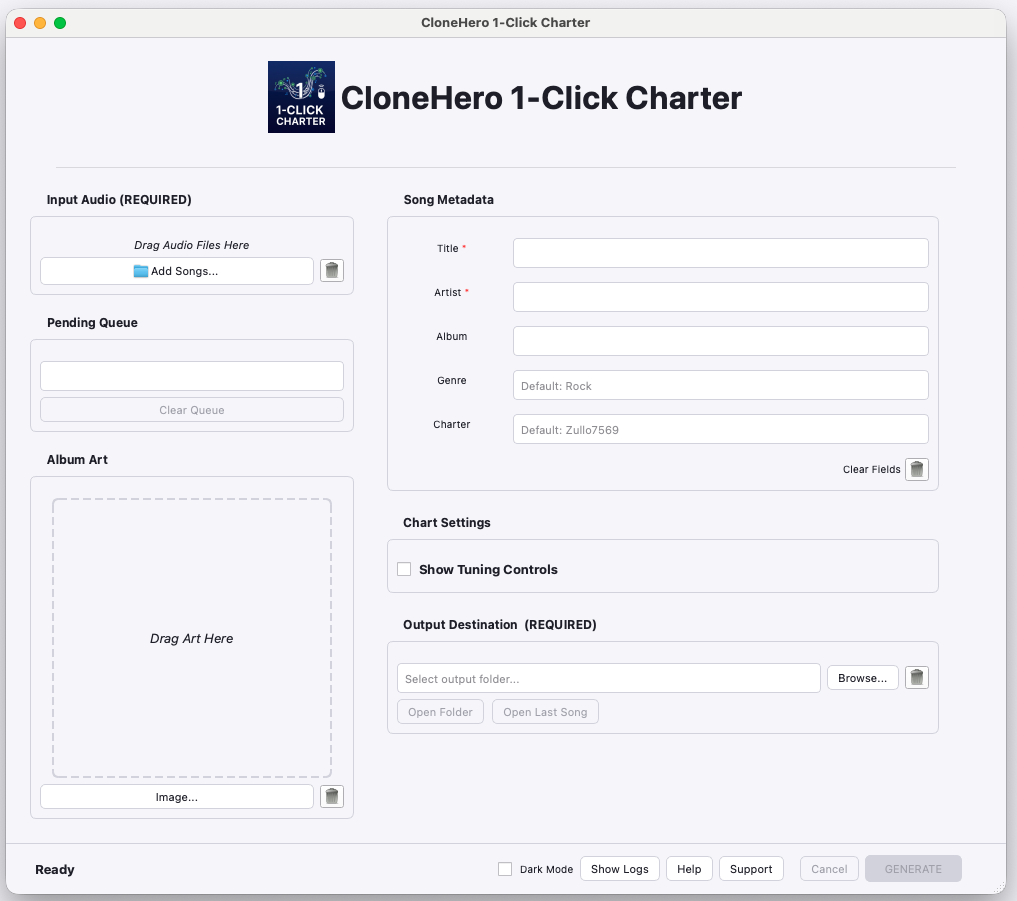
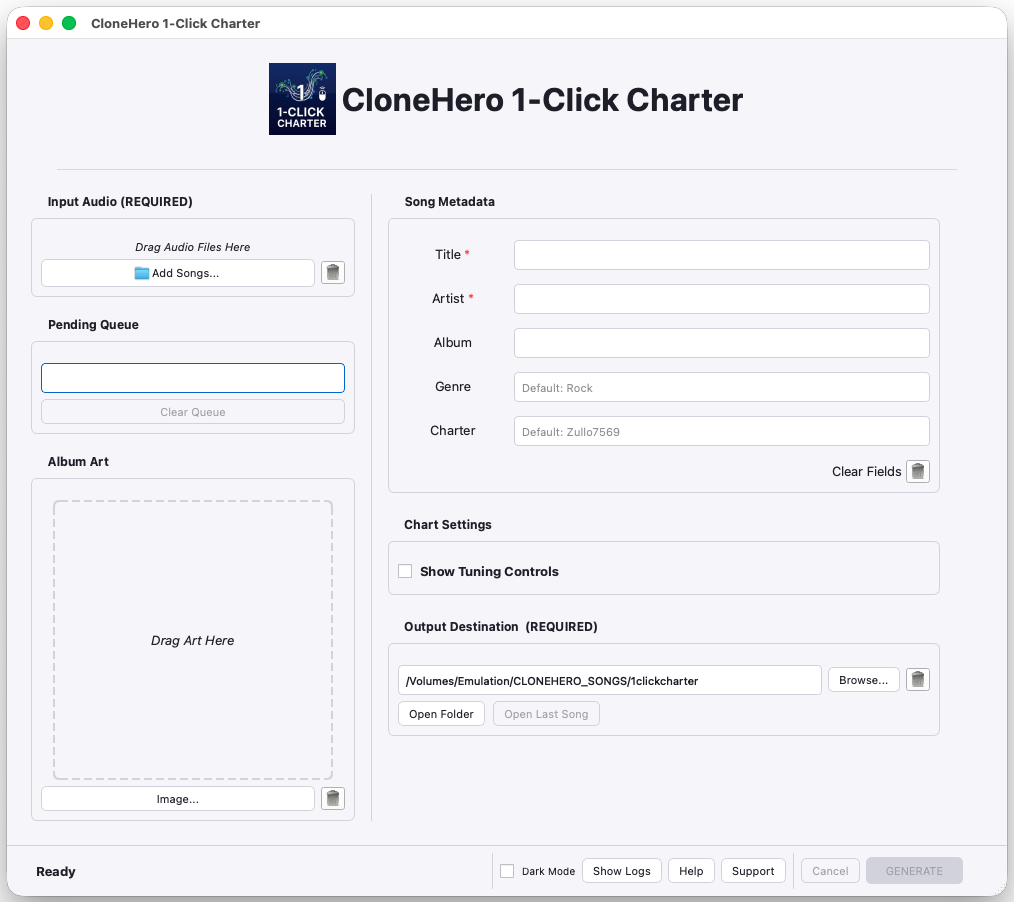
final touches

diff --git a/gui/main_window.py b/gui/main_window.py
@@ -3,7 +3,7 @@ import json
 import sys
 from pathlib import Path
 
-from PySide6.QtCore import QSettings, Qt, QTimer, QProcess
+from PySide6.QtCore import QSettings, Qt, QTimer, QProcess, QSize
 from PySide6.QtGui import (QDragEnterEvent, QDropEvent, QPixmap)
 from PySide6.QtWidgets import (QApplication, QCheckBox, QFileDialog, QFrame, QGroupBox,
                                QHBoxLayout, QLabel, QListWidget, QListWidgetItem, QMainWindow, QMessageBox,
@@ -31,6 +31,8 @@ class MainWindow(QMainWindow):
         self.cover_path: Path | None = None
         self.last_out_song: Path | None = None
 
+        self.validator_proc: QProcess | None = None
+
         self.song_queue: list[Path] = []
         self._title_user_edited = False
 
@@ -49,7 +51,6 @@ class MainWindow(QMainWindow):
         self.settings_panel.refresh_presets()
         last_preset = self.settings.value("preset", "2) Standard", type=str)
 
-        # We need to manually set this on the combo box in the panel
         idx = self.settings_panel.preset_combo.findText(last_preset)
         if idx >= 0:
             self.settings_panel.preset_combo.setCurrentIndex(idx)
@@ -76,16 +77,13 @@ class MainWindow(QMainWindow):
 
     def _restore_settings(self) -> None:
         """Restores window geometry and last used text fields."""
-        # 1. Charter Name
         saved_charter = self.settings.value("charter", "Zullo7569", type=str)
         if saved_charter != "Zullo7569":
             self.meta_panel.charter_edit.setText(saved_charter)
 
-        # 2. Output Directory
         saved_out = self.settings.value("out_dir", "", type=str)
         self.out_panel.dir_edit.setText(saved_out)
 
-        # 3. Window Geometry
         geom = self.settings.value("geometry")
         if geom: self.restoreGeometry(geom)
 
@@ -100,10 +98,12 @@ class MainWindow(QMainWindow):
         self._build_header(main_layout)
 
         # Splitter Body
-        splitter = QSplitter(Qt.Horizontal)
-        splitter.setHandleWidth(1)
-        splitter.setChildrenCollapsible(False)
-        main_layout.addWidget(splitter)
+        self.splitter = QSplitter(Qt.Horizontal)
+        self.splitter.setHandleWidth(1) # Visual line handled by stylesheet or layout
+        # We can style the handle to be visible
+        self.splitter.setStyleSheet("QSplitter::handle { background-color: palette(mid); }")
+        self.splitter.setChildrenCollapsible(False)
+        main_layout.addWidget(self.splitter)
 
         # SIDEBAR (Audio, Queue, Art)
         self.sidebar_widget = QWidget()
@@ -137,13 +137,13 @@ class MainWindow(QMainWindow):
         # Scroll Area
         scroll = QScrollArea()
         scroll.setWidgetResizable(True)
-        scroll.setHorizontalScrollBarPolicy(Qt.ScrollBarAlwaysOff) # Removed Horizontal Scroll
+        scroll.setHorizontalScrollBarPolicy(Qt.ScrollBarAlwaysOff)
         scroll.setWidget(self.main_widget)
         scroll.setFrameShape(QFrame.NoFrame)
 
-        splitter.addWidget(self.sidebar_widget)
-        splitter.addWidget(scroll)
-        splitter.setStretchFactor(1, 1)
+        self.splitter.addWidget(self.sidebar_widget)
+        self.splitter.addWidget(scroll)
+        self.splitter.setStretchFactor(1, 1)
 
         # Footer
         self._build_footer()
@@ -169,7 +169,7 @@ class MainWindow(QMainWindow):
         layout.addWidget(w)
 
         line = QFrame()
-        line.setObjectName("HeaderLine") # Named object for theming
+        line.setObjectName("HeaderLine")
         line.setFixedHeight(1)
         line.setFixedWidth(900)
         layout.addWidget(line, alignment=Qt.AlignHCenter)
@@ -199,7 +199,7 @@ class MainWindow(QMainWindow):
         self.grp_queue = QGroupBox("Pending Queue")
         v_q = QVBoxLayout(self.grp_queue)
         self.queue_list = QListWidget()
-        self.queue_list.setMaximumHeight(90) # Taller queue box
+        self.queue_list.setMaximumHeight(90)
         self.btn_clear_queue = QPushButton("Clear Queue")
         v_q.addWidget(self.queue_list)
         v_q.addWidget(self.btn_clear_queue)
@@ -232,14 +232,41 @@ class MainWindow(QMainWindow):
         lay = QHBoxLayout(footer)
         lay.setContentsMargins(0, 5, 20, 5)
 
+        # --- LEFT SIDE CONTROLS ---
         self.chk_dark = QCheckBox("Dark Mode")
         self.chk_dark.setChecked(self.dark_mode)
+
         self.btn_show_logs = QPushButton("Show Logs")
         self.btn_help = QPushButton("Help")
         self.btn_support = QPushButton("Support")
-        self.btn_cancel = QPushButton("Cancel")
 
-        # Status Bar items
+        # Separators
+        sep1 = QFrame()
+        sep1.setFrameShape(QFrame.VLine)
+        sep1.setStyleSheet("color: palette(mid);")
+
+        sep2 = QFrame()
+        sep2.setFrameShape(QFrame.VLine)
+        sep2.setStyleSheet("color: palette(mid);")
+
+        lay.addWidget(sep1)
+        lay.addWidget(self.chk_dark)
+        lay.addWidget(self.btn_show_logs)
+        lay.addWidget(self.btn_help)
+        lay.addWidget(self.btn_support)
+        lay.addWidget(sep2)
+
+        lay.addStretch() # Spacer between left/right controls
+
+        # --- RIGHT SIDE ACTION ---
+        self.btn_cancel = QPushButton("Cancel")
+        self.btn_generate = QPushButton("  GENERATE  ")
+        self.btn_generate.setObjectName("Primary")
+
+        lay.addWidget(self.btn_cancel)
+        lay.addWidget(self.btn_generate)
+
+        # --- STATUS BAR ---
         self.status_container = QWidget()
         s_lay = QHBoxLayout(self.status_container)
         s_lay.setContentsMargins(27, 0, 0, 0)
@@ -255,18 +282,6 @@ class MainWindow(QMainWindow):
         s_lay.addStretch()
 
         self.statusBar().addWidget(self.status_container, 1)
-
-        self.btn_generate = QPushButton("  GENERATE  ")
-        self.btn_generate.setObjectName("Primary")
-
-        lay.addWidget(self.chk_dark)
-        lay.addWidget(self.btn_show_logs)
-        lay.addWidget(self.btn_help)
-        lay.addWidget(self.btn_support)
-        lay.addSpacing(10)
-        lay.addWidget(self.btn_cancel)
-        lay.addWidget(self.btn_generate)
-
         self.statusBar().addPermanentWidget(footer)
 
         # Menu
@@ -350,8 +365,6 @@ class MainWindow(QMainWindow):
         dlg = SectionReviewDialog(sections, density, self)
         if dlg.exec():
             overrides = dlg.get_sections()
-            # Save overrides temporarily or pass directly
-            # For simplicity, save to the output dir we already know
             out_json = (self.worker._out_song / "overrides.json")
             out_json.write_text(json.dumps(overrides, indent=2))
             self.worker.resume_with_overrides(out_json)
@@ -376,9 +389,9 @@ class MainWindow(QMainWindow):
                 self.log_window.append_text("Cover copied.")
             except: pass
 
-        # Run Validation (Fire & Forget in terms of UI blocking)
+        # Run Validation
         self.status_label.setText("Validating...")
-        self.worker.validate(out_song)
+        self.run_health_check(out_song)
 
         # Handle Queue
         if self.song_queue:
@@ -391,7 +404,7 @@ class MainWindow(QMainWindow):
             self._clear_song_info()
             self.audio_path = None
             self.audio_label.setText("Drag Audio Files Here")
-            self.audio_label.setStyleSheet("font-style: italic; color: palette(disabled-text);")
+            self.audio_label.setStyleSheet("font-style: italic; color: palette(disabled-text); font-size: 11pt;")
             self.status_label.setText("Finished")
 
         self._update_state()
@@ -426,7 +439,7 @@ class MainWindow(QMainWindow):
             min_gap_ms=sp.min_gap_spin.value(),
             seed=sp.seed_spin.value(),
 
-            allow_orange=True, rhythmic_glue=True, grid_snap="1/16", # Hardcoded
+            allow_orange=True, rhythmic_glue=True, grid_snap="1/16",
 
             chord_prob=sp.chord_slider.value()/100.0,
             sustain_len=sp.sustain_slider.value()/100.0,
@@ -440,6 +453,9 @@ class MainWindow(QMainWindow):
         )
 
     # --- Helpers ---
+    def append_log(self, text: str):
+        self.log_window.append_text(text)
+
     def load_audio(self, path: Path):
         self.audio_path = path
         self.audio_label.setText(path.name)
@@ -489,17 +505,15 @@ class MainWindow(QMainWindow):
             h = QHBoxLayout(wid)
             h.setContentsMargins(4,0,4,0)
 
-            # Smaller text for the label
             lbl = QLabel(p.name)
             lbl.setStyleSheet("background: transparent; font-size: 11pt")
             h.addWidget(lbl, 1)
 
-            # Compact trash button
             btn = QToolButton()
             btn.setIcon(self.style().standardIcon(QStyle.SP_TrashIcon))
-            btn.setFixedSize(20, 20) # Force small square size
+            btn.setFixedSize(20, 20)
             btn.setCursor(Qt.PointingHandCursor)
-            btn.setStyleSheet("border: none; background: transparent;") # Remove visual clutter
+            btn.setStyleSheet("border: none; background: transparent;")
 
             btn.clicked.connect(lambda checked=False, idx=i: self._remove_queue_item(idx))
             h.addWidget(btn, 0)
@@ -549,7 +563,6 @@ class MainWindow(QMainWindow):
         if self.centralWidget(): self.centralWidget().layout().activate()
         self.resize(1000, 700)
 
-    # Drag and Drop handlers
     def dragEnterEvent(self, e: QDragEnterEvent):
         if e.mimeData().hasUrls(): e.acceptProposedAction()
 
@@ -567,6 +580,22 @@ class MainWindow(QMainWindow):
             if not self.audio_path: self.load_audio(new_s.pop(0))
             self.song_queue.extend(new_s)
             self._update_queue_display()
+
+    # RESTORED: Health check runner to handle the success popup
+    def run_health_check(self, song_dir: Path) -> None:
+        from gui.utils import get_python_exec, is_frozen
+
+        py_exec = get_python_exec()
+        if is_frozen():
+            cmd = [str(py_exec), "--internal-cli"]
+        else:
+            cmd = [str(py_exec), "-m", "charter.cli"]
+
+        cmd.extend(["--validate", str(song_dir)])
+
+        self.validator_proc = QProcess(self)
+        self.validator_proc.finished.connect(lambda c, s: self._on_health_finished(c, s, song_dir))
+        self.validator_proc.start(cmd[0], cmd[1:])
 
     def _on_health_finished(self, code: int, status: QProcess.ExitStatus, song_dir: Path) -> None:
         stdout = bytes(self.validator_proc.readAllStandardOutput()).decode("utf-8", errors="replace")

diff --git a/charter/reduction.py b/charter/reduction.py
@@ -12,9 +12,9 @@ LANE_O = 4
 
 def _map_to_target(notes: list, target_diff: str) -> list:
     new_notes = []
-    # Target map: e.g. Medium {0:72, 1:73, 2:74, 3:75}
+    # Target map: e.g. Medium {0:72, 1:73, 2:74, 3:75, 4:76}
     target_map = DIFFICULTY_PITCHES[target_diff]
-    max_lane = max(target_map.keys()) # e.g. 3 for Medium
+    max_lane = max(target_map.keys()) # e.g. 4 for Medium
 
     if not notes: return []
 
@@ -29,10 +29,7 @@ def _map_to_target(notes: list, target_diff: str) -> list:
         # Determine current lane (0-4)
         lane = n.pitch - base_pitch
 
-        # COMPRESSION LOGIC:
-        # If lane is outside target (e.g. Orange in Medium), shift it down.
-        # Medium (Max 3): Lane 4 (O) -> 3 (B)
-        # Easy (Max 2): Lane 3 (B) -> 2 (Y), Lane 4 (O) -> 2 (Y)
+        # Shift down if outside target range (e.g. Orange in Easy)
         if lane > max_lane:
             lane = max_lane
 
@@ -40,7 +37,6 @@ def _map_to_target(notes: list, target_diff: str) -> list:
         # Randomly shift highest lane down sometimes to reduce density of "hard" notes
         if target_diff in ["Medium", "Easy"] and lane == max_lane:
             # 40% chance to shift Blue->Yellow (Med) or Yellow->Red (Easy)
-            # This keeps the "highest note" special and less frequent
             if random.random() < 0.40:
                 lane -= 1
 
@@ -85,16 +81,14 @@ def reduce_to_hard(expert_notes: list, min_gap_ms: int = 120) -> list:
     for t in sorted(chord_groups.keys()):
         chord = chord_groups[t]
         if len(chord) > 2:
-            # Sort by pitch density or random? Just take first 2 for now.
             chord = chord[:2]
         final_notes.extend(chord)
 
-    # FORCE DIFFERENCE: If Hard == Expert, aggressively thin it out
+    # FORCE DIFFERENCE: If Hard == Expert, aggressively thin it out (every 4th note)
     if len(final_notes) >= len(expert_notes) * 0.95:
-        # Remove every 8th note to force a difference
         thinned = []
         for i, n in enumerate(final_notes):
-            if i % 8 != 0:
+            if i % 4 != 0:
                 thinned.append(n)
         final_notes = thinned
 
@@ -104,7 +98,7 @@ def reduce_to_medium(hard_notes: list, min_gap_ms: int = 220) -> list:
     """
     Hard -> Medium
     - No Chords.
-    - Compresses 5 lanes to 4.
+    - Limits Orange notes to MAX 5.
     """
     base = _map_to_target(hard_notes, "Medium")
     if not base: return []
@@ -115,14 +109,31 @@ def reduce_to_medium(hard_notes: list, min_gap_ms: int = 220) -> list:
 
     base.sort(key=lambda x: x.start)
 
+    # 1. Filter for time (density)
     for n in base:
-        # Collapse chords (Single notes only)
-        if abs(n.start - last_start) < 0.05:
-            continue
-
+        if abs(n.start - last_start) < 0.05: continue # No chords
         if n.start - last_start >= min_gap_sec:
             filtered.append(n)
             last_start = n.start
+
+    # 2. Orange Cap Logic & Scattering
+    orange_indices = []
+    base_pitch = 72 # Medium starts at 72
+
+    for i, n in enumerate(filtered):
+        lane = n.pitch - base_pitch
+        if lane == 4: # Orange
+            orange_indices.append(i)
+
+    # Keep 5 random ones, scatter the rest to ANY lower lane (not just blue)
+    if len(orange_indices) > 5:
+        to_keep = set(random.sample(orange_indices, 5))
+        for i in orange_indices:
+            if i not in to_keep:
+                # Scatter logic: Shift Orange to 1 (Red), 2 (Yellow), or 3 (Blue)
+                # Weighted slightly towards Blue to keep intensity
+                new_lane = random.choices([0, 1, 2, 3], weights=[0.2, 0.3, 0.4, 0.1], k=1)[0]
+                filtered[i].pitch = base_pitch + new_lane
 
     return filtered
 

diff --git a/charter/config.py b/charter/config.py
@@ -10,7 +10,7 @@ SP_PITCH = 116
 DIFFICULTY_PITCHES = {
     "Expert": {0: 96, 1: 97, 2: 98, 3: 99, 4: 100}, # 5 Lanes
     "Hard":   {0: 84, 1: 85, 2: 86, 3: 87, 4: 88},  # 5 Lanes
-    "Medium": {0: 72, 1: 73, 2: 74, 3: 75},         # 4 Lanes (No Orange)
+    "Medium": {0: 72, 1: 73, 2: 74, 3: 75, 4: 76},  # 5 Lanes (but heavily restricted in reduction)
     "Easy":   {0: 60, 1: 61, 2: 62}                 # 3 Lanes (No Blue/Orange)
 }
 
